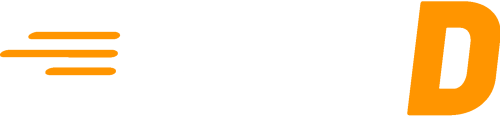
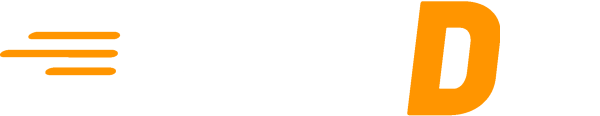
Fixed mobile horizontal scroller

diff --git a/html/css/main.css b/html/css/main.css
@@ -27,10 +27,6 @@ div#main {
   width: 100%;
 }
 
-div#logo img {
-  padding-right: 100px;
-}
-
 img {
   max-width: 100%;
 }
